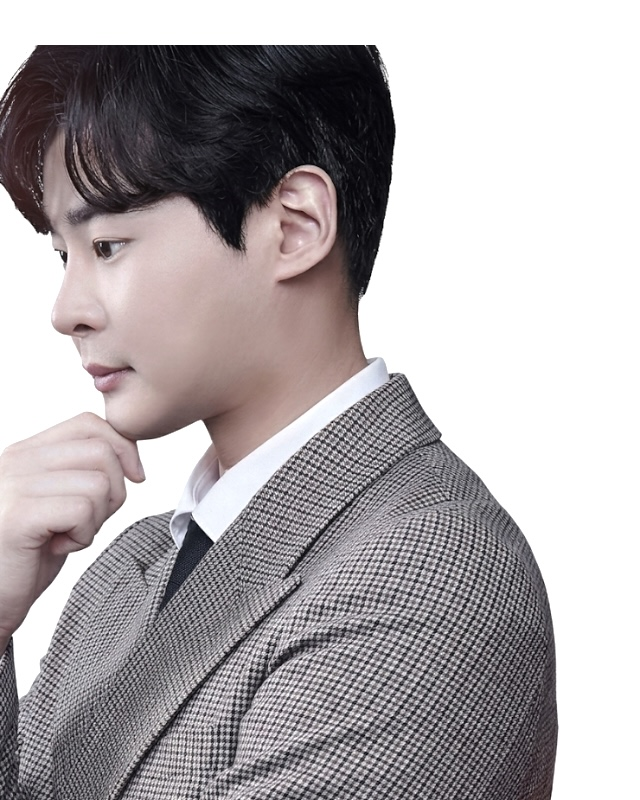
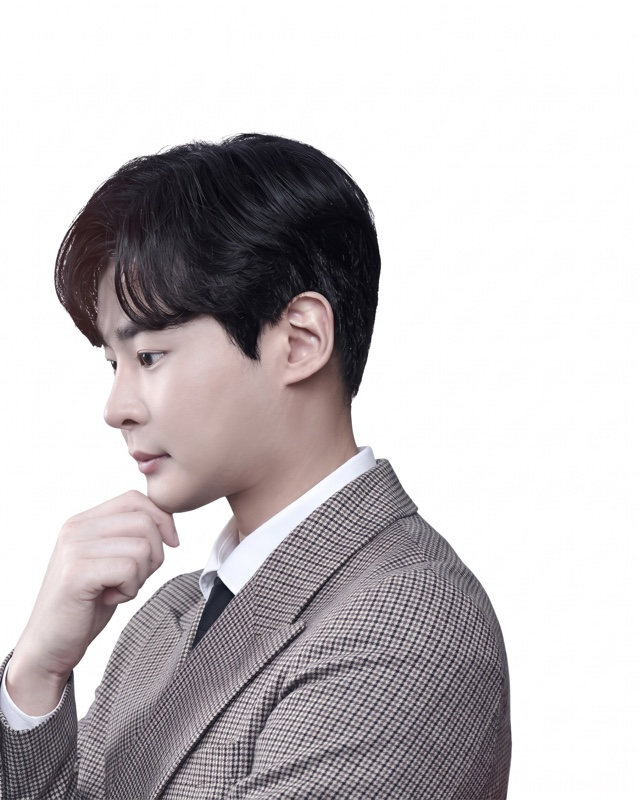
조일환을 강윤구 다음으로, 강윤구 사진 인물 크기 줄임

diff --git a/index.html b/index.html
@@ -657,12 +657,12 @@ const T=[
  {n:'김병우',s:'수학',c:['고려대학교 수학교육과','대치 시대인재']},
  {n:'김준교',s:'수학',c:['서울과학고등학교 졸업','KAIST 졸업']},
  {n:'소영윤',s:'수학',c:['대치동 최상위권 현장 강의','25년 이상 내신 · 수능 수학 지도']},
- {n:'조일환',s:'수학',c:['서울대학교 수학과 학사 · 석사 수료','UCLA 수학과 석사 · 응용수학 박사 과정','가톨릭대 · 성균관대 의약 논술 강의']},
  {n:'문지현',s:'영어',c:['현) 메가스터디 영어 인강 대표강사','러셀 공채 1위 영어강사','전) 휘문고 · 단대부고 · 세화고 전임','매년 수능 만점자 배출','이투스북 모의고사 출제 · 검토']},
  {n:'박정은',s:'영어',c:['서울대학교 영어영문학과','서초 메가스터디 강의평가 1위','메가스터디 6월 · 9월 수능 모의평가 대표 평가위원','대성 모의고사 평가위원 (Dfine · Darchaive 모의고사 외)']},
  {n:'고연승',s:'영어',t:'영어 · 메디컬 핵심반',c:['연세대학교 영어영문학과 졸업 · 영어교육학과 석사','현) EBSi 수능 라인업 대표 강사','현) 대치 독수리 의대관','전) 전국모의고사 출제위원','전) 중동고 정교사','강남대성 S2 출강 및 담임','2024 수능연계 교재 『수능완성』 집필']},
  {n:'고아름',s:'탐구',t:'통합사회',c:[]},
  {n:'강윤구',s:'수학',c:['서울대학교 기계항공공학부','이투스 온라인 수학 인강 강사','공인회계사(CPA) 합격','의치대생 · 서울대생 최근 5년간 100명 이상 제자 배출']},
+ {n:'조일환',s:'수학',c:['서울대학교 수학과 학사 · 석사 수료','UCLA 수학과 석사 · 응용수학 박사 과정','가톨릭대 · 성균관대 의약 논술 강의']},
  {n:'박성하',s:'수학',t:'수학',c:['서울대학교 수학교육과 졸업','종로학원','미래탐구','천재교육 공저','『우리 아이 마음에 수학을 심다』 (유페이퍼)','종로 모의고사 출제']},
  {n:'이정태',s:'탐구',t:'통합사회 · 인문논술',c:['서울대학교 문화인류학과 · 미시간주립대 석사','아폴론 · 이슈앤스카이','전) 중앙일보 기자','『밥상에 차려진 통합논술』']},
  {n:'안재훈',s:'논술',t:'인문 · 약술국어',c:['서울대학교 철학과 · 서울대 행정대학원','하나고 · 포항제철고 출강','저서 다수']},
@@ -677,7 +677,7 @@ const T=[
 ];
 const list=document.getElementById('tlist');
 /* 사진: img/teachers/이름.jpg 를 PHOTO 에 적으면 사진, 없으면 성 한 글자 */
-const PHOTO={};['조일환','류성훈','이태형','장의순','김호랑','백나경','고연승','신연우','권현석','정민','홍진수','최정윤','이예섭','정지만','김현중','임현철','이창환','최현재','김경한','문지현','박정은','박남진','최한근','안민형','강윤구','박성하'].forEach(n=>PHOTO[n]='img/teachers/'+n+'.jpg?v=1128d');
+const PHOTO={};['조일환','류성훈','이태형','장의순','김호랑','백나경','고연승','신연우','권현석','정민','홍진수','최정윤','이예섭','정지만','김현중','임현철','이창환','최현재','김경한','문지현','박정은','박남진','최한근','안민형','강윤구','박성하'].forEach(n=>PHOTO[n]='img/teachers/'+n+'.jpg?v=1128e');
 /* 줄 순서: 1줄 국어 · 2줄 수학 · 3줄 영어 · 4줄 탐구 · 논술 (11/19 사장님 요청)
    같은 과목 안에서는 (탐구는 통합과학·통합사회·사탐 순으로 묶고) 사진 있는 강사 먼저, 나머지는 배열 순서 그대로 */
 const SUBJ=['국어','수학','영어','탐구','논술'];
